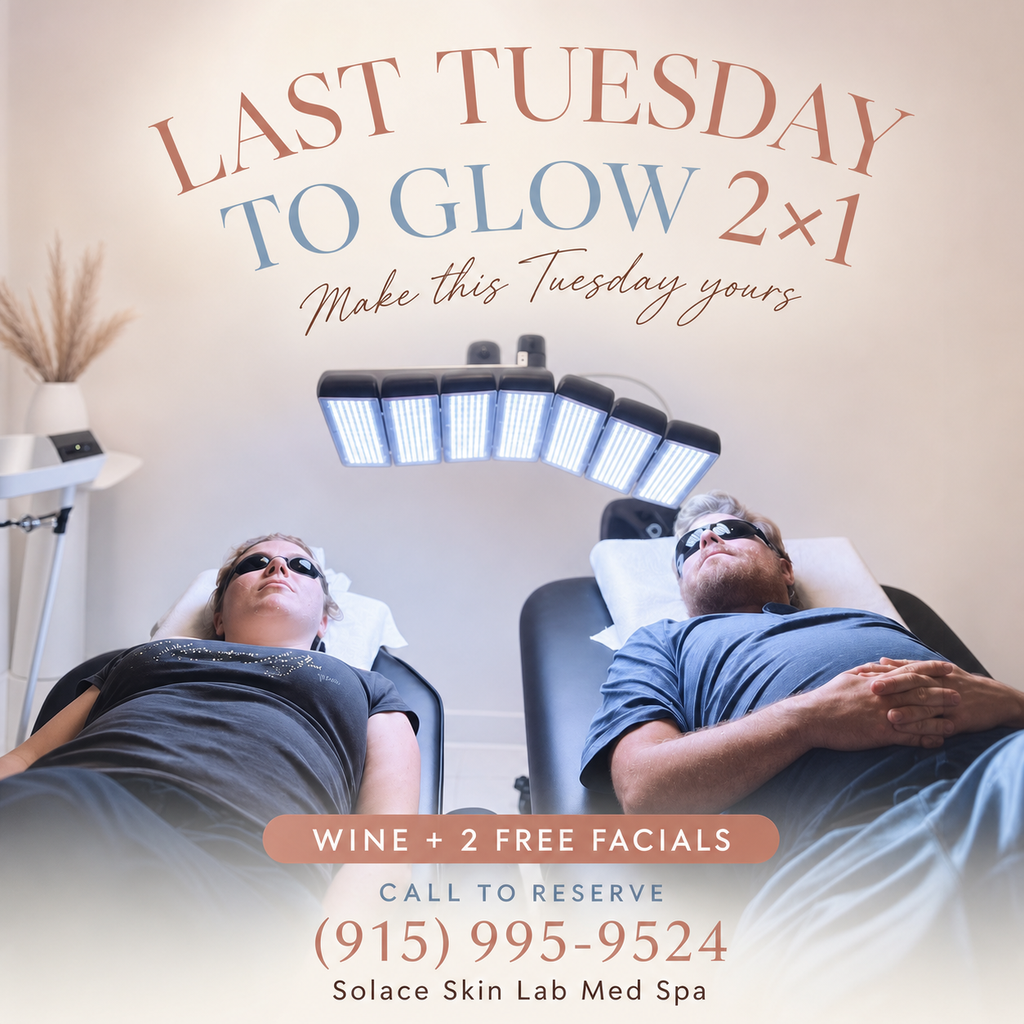
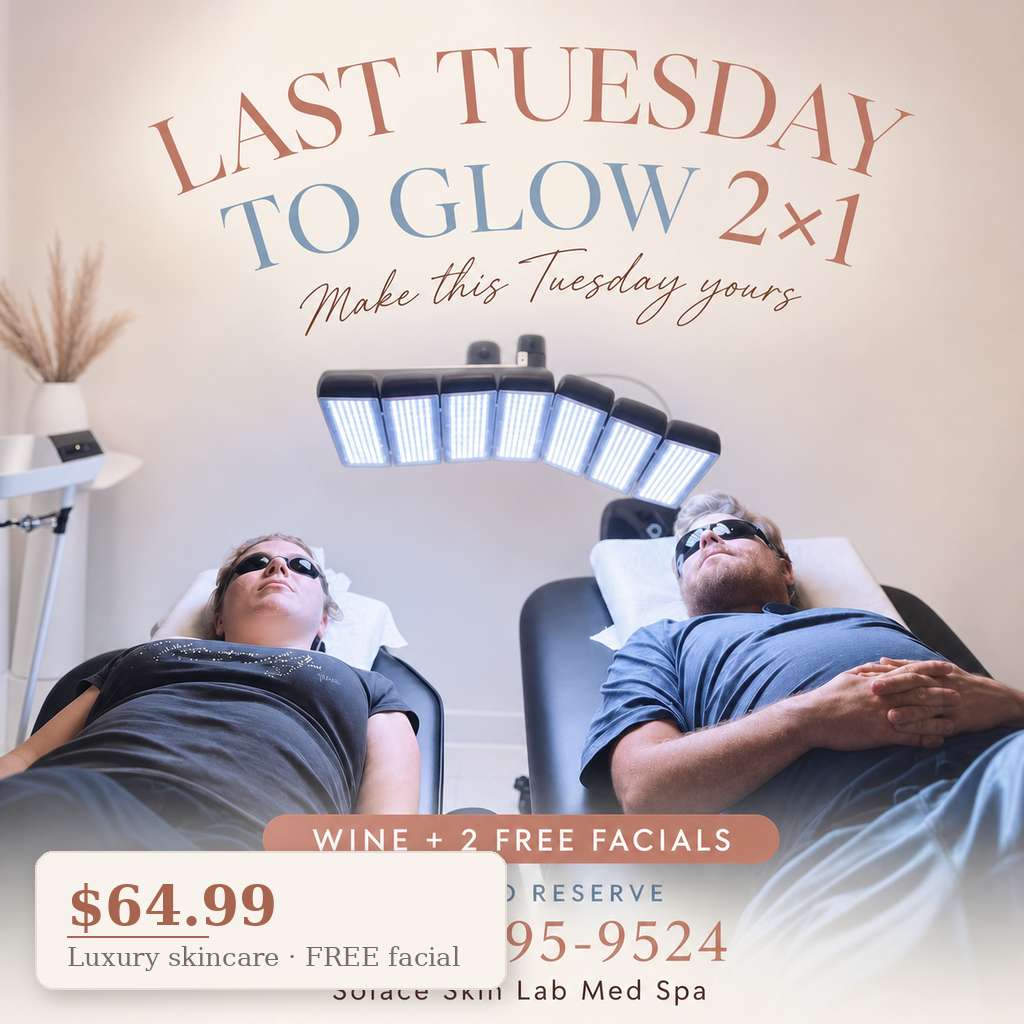
feat(solace-portal): Meta Ads approve buttons + $64.99 price badge on days 5/12/19/26/28 + remove AIDA labels

Changed region(s): [[0.0312, 0.8125, 0.5, 1.0]]

diff --git a/index.html b/index.html
@@ -51,30 +51,32 @@ const BUNKER_CAMPAIGN='august-2026';
 const BUNKER_CLIENT_NAME='';
 const REVIEWER='Solace Client';
 let clientRowId=null;
-let posts=[];let adsData=null;let filter='all';let state={approved:{},skipped:{},notes:{},edits:{}};
+let posts=[];let adsData=null;let filter='all';let state={approved:{},skipped:{},notes:{},edits:{},adApproved:{},adSkipped:{}};
 const $=s=>document.querySelector(s), $$=s=>[...document.querySelectorAll(s)];
 function esc(s=''){return String(s).replace(/[&<>"']/g,c=>({'&':'&amp;','<':'&lt;','>':'&gt;','"':'&quot;',"'":'&#39;'}[c]))}
 function loadState(){try{state=Object.assign(state,JSON.parse(localStorage.getItem('solace_august_v2_review')||'{}'))}catch(e){}}
-function mergeSupabase(){return fetch(`${SUPABASE_URL}/rest/v1/approvals?client=eq.${encodeURIComponent(BUNKER_CLIENT)}&campaign=eq.${encodeURIComponent(BUNKER_CAMPAIGN)}&client_name=eq.${encodeURIComponent(REVIEWER)}&select=id,review`,{headers:{'apikey':SUPABASE_ANON,'Authorization':`Bearer ${SUPABASE_ANON}`}}).then(r=>r.ok?r.json():[]).then(rows=>{const row=rows[0];if(row){clientRowId=row.id;const ps=(row.review&&row.review.posts)||[];ps.forEach(p=>{const d=+p.id;if(!d)return;const st=p.status;if(st==='approved'){state.approved[d]=true;delete state.skipped[d]}else if(st==='changes'||st==='skipped'){state.skipped[d]=true;delete state.approved[d]}if(p.note){state.notes[d]=p.note}})};render();renderAds();updateStats();schedulePersist()})}
+function mergeSupabase(){return fetch(`${SUPABASE_URL}/rest/v1/approvals?client=eq.${encodeURIComponent(BUNKER_CLIENT)}&campaign=eq.${encodeURIComponent(BUNKER_CAMPAIGN)}&client_name=eq.${encodeURIComponent(REVIEWER)}&select=id,review`,{headers:{'apikey':SUPABASE_ANON,'Authorization':`Bearer ${SUPABASE_ANON}`}}).then(r=>r.ok?r.json():[]).then(rows=>{const row=rows[0];if(row){clientRowId=row.id;const ps=(row.review&&row.review.posts)||[];ps.forEach(p=>{const d=+p.id;if(!d)return;const st=p.status;if(st==='approved'){state.approved[d]=true;delete state.skipped[d]}else if(st==='changes'||st==='skipped'){state.skipped[d]=true;delete state.approved[d]}if(p.note){state.notes[d]=p.note}});const adsIn=(row.review&&row.review.adStatus)||{};Object.keys(adsIn).forEach(id=>{const st=adsIn[id];if(st==='approved'){state.adApproved[id]=true;delete state.adSkipped[id]}else if(st==='changes'||st==='skipped'){state.adSkipped[id]=true;delete state.adApproved[id]}})};render();renderAds();renderAdActions();updateStats();schedulePersist()})}
 function save(){localStorage.setItem('solace_august_v2_review',JSON.stringify(state));updateStats();schedulePersist()}
 let _persistT=null;
 function schedulePersist(){clearTimeout(_persistT);_persistT=setTimeout(()=>persist(true),800)}
 function persist(silent){const review=buildReview();const headers={'Content-Type':'application/json','apikey':SUPABASE_ANON,'Authorization':`Bearer ${SUPABASE_ANON}`,'Prefer':'return=representation'};if(clientRowId){return fetch(`${SUPABASE_URL}/rest/v1/approvals?id=eq.${clientRowId}`,{method:'PATCH',headers,body:JSON.stringify({review})}).then(r=>{if(!r.ok&&!silent)alert('No se pudo guardar. Revisa tu conexión.');return r.ok}).catch(()=>{if(!silent)alert('No se pudo guardar. Revisa tu conexión.');return false})}return fetch(`${SUPABASE_URL}/rest/v1/approvals`,{method:'POST',headers,body:JSON.stringify({client:BUNKER_CLIENT,campaign:BUNKER_CAMPAIGN,client_name:REVIEWER,review})}).then(r=>r.ok?r.json():null).then(rows=>{if(rows&&rows[0])clientRowId=rows[0].id;return !!rows}).catch(()=>false)}
 function statusOf(d){return state.approved[d]?'approved':state.skipped[d]?'skipped':'pending'}
-function updateStats(){const a=posts.filter(p=>statusOf(p.day)==='approved').length,s=posts.filter(p=>statusOf(p.day)==='skipped').length,n=posts.length-a-s;$('#stats').innerHTML=`<span class="pill ok">${a} approved</span><span class="pill skip">${s} changes requested</span><span class="pill">${n} pending</span>`;$('#bar').style.width=`${posts.length?a/posts.length*100:0}%`}
+function adStatusOf(id){return state.adApproved[id]?'approved':state.adSkipped[id]?'skipped':'pending'}
+function renderAdActions(){if(!adsData)return;$$('#adGrid .ad-card').forEach(card=>{const id=card.dataset.ad;if(!id)return;const st=adStatusOf(id);const label=st==='approved'?'APPROVED':st==='skipped'?'CHANGES REQUESTED':'PENDING';const color=st==='approved'?'var(--ok)':st==='skipped'?'var(--skip)':'var(--muted)';let acts=card.querySelector('.ad-actions');if(!acts){acts=document.createElement('div');acts.className='ad-actions actions';card.appendChild(acts)}acts.style.cssText='display:flex;gap:8px;padding:0 18px 18px;flex-wrap:wrap;align-items:center';acts.innerHTML=`<span style="display:inline-block;font-size:10px;font-weight:800;letter-spacing:.14em;color:${color};margin-right:4px">${label}</span><button class="approve" data-ad-action="approve" data-ad="${id}">Approve</button><button class="skip" data-ad-action="skip" data-ad="${id}">Request changes</button><button data-ad-action="reset" data-ad="${id}">Reset</button>`});$$('#adGrid [data-ad-action]').forEach(b=>b.onclick=()=>{const id=b.dataset.ad,a=b.dataset.adAction;if(a==='approve'){state.adApproved[id]=true;delete state.adSkipped[id]}else if(a==='skip'){state.adSkipped[id]=true;delete state.adApproved[id]}else{delete state.adApproved[id];delete state.adSkipped[id]}save();renderAds();renderAdActions()})}
+function updateStats(){const a=posts.filter(p=>statusOf(p.day)==='approved').length,s=posts.filter(p=>statusOf(p.day)==='skipped').length,n=posts.length-a-s;const aa=adsData?adsData.ads.filter(x=>adStatusOf(x.id)==='approved').length:0,as=adsData?adsData.ads.filter(x=>adStatusOf(x.id)==='skipped').length:0,an=adsData?adsData.ads.length-aa-as:0;$('#stats').innerHTML=`<span class="pill ok">${a} approved</span><span class="pill skip">${s} changes requested</span><span class="pill">${n} pending</span><span class="pill ok">${aa} ads approved</span><span class="pill skip">${as} ads changes</span><span class="pill">${an} ads pending</span>`;$('#bar').style.width=`${posts.length?a/posts.length*100:0}%`}
 function edited(p,k){return state.edits[p.day]?.[k]??p[k]}
 function visiblePosts(){const type=$('#typeFilter').value,q=$('#search').value.toLowerCase().trim();return posts.filter(p=>(filter==='all'||statusOf(p.day)===filter)&&(type==='all'||p.type===type)&&(!q||JSON.stringify(p).toLowerCase().includes(q)))}
 function field(p,key,label){return `<div class="field"><b>${label}</b><textarea data-day="${p.day}" data-key="${key}">${esc(edited(p,key))}</textarea></div>`}
-function render(){const list=visiblePosts();$('#grid').innerHTML=list.length?list.map(p=>{const st=statusOf(p.day);return `<article class="card ${st}" id="card-${p.day}"><div class="image-wrap"><span class="image-status">${st==='approved'?'APPROVED':st==='skipped'?'CHANGES REQUESTED':'PENDING'}</span><img loading="lazy" src="images/august-2026-v2/day${String(p.day).padStart(2,'0')}.png" alt="Day ${p.day}: ${esc(p.title)}" data-full="images/august-2026-v2/day${String(p.day).padStart(2,'0')}.png"></div><div class="meta"><span class="day">DAY ${p.day}</span><span>${esc(p.date)}</span><span class="type">${esc(p.type)}</span></div><div class="content"><h3>${esc(p.title)}</h3><div class="aida">${field(p,'hook','ATTENTION')}${field(p,'body','INTEREST')}${field(p,'desire','DESIRE')}${field(p,'cta','ACTION')}</div><div class="hashtags">${esc(p.hashtags)}</div><div class="footer">📍 Cielo Vista Mall, El Paso TX · 📞 ${PHONE}</div></div><div class="actions"><button class="approve" data-action="approve" data-day="${p.day}">Approve</button><button class="skip" data-action="skip" data-day="${p.day}">Request changes</button><button data-action="reset" data-day="${p.day}">Reset</button></div><div class="notes"><textarea data-note="${p.day}" placeholder="Client notes for this post…">${esc(state.notes[p.day]||'')}</textarea></div></article>`}).join(''):'<div class="empty">No posts match this filter.</div>';bindCards();updateStats()}
-function renderAds(){if(!adsData)return;const s=adsData.monthlyStrategy;const budget=s.budgetAllocation.map(x=>`<li><b>${x.percent}% ${esc(x.segment)}:</b> ${esc(x.purpose)}</li>`).join('');const weeks=s.weeklyFlight.map(x=>`<li><b>Week ${x.week} · ${esc(x.dates)}:</b> ${esc(x.focus)} — ${esc(x.actions)}</li>`).join('');const metrics=s.measurement.map(x=>`<li>${esc(x)}</li>`).join('');$('#strategyGrid').innerHTML=`<article class="strategy-card"><h3>Budget Allocation</h3><ul>${budget}</ul></article><article class="strategy-card"><h3>Four-Week Flight</h3><ul>${weeks}</ul></article><article class="strategy-card"><h3>Measurement &amp; Optimization</h3><ul>${metrics}</ul></article>`;$('#adGrid').innerHTML=adsData.ads.map(a=>{const day=a.creativeDay||(a.creativeDays?.[0]);const allDays=[a.creativeDay,...(a.creativeDays||[]),...(a.alternateCreativeDays||[]),a.alternateCreativeDay].filter(Boolean);return `<article class="ad-card"><div class="ad-top"><img loading="lazy" src="images/august-2026-v2/day${String(day).padStart(2,'0')}.png" alt="Creative for ${esc(a.name)}"><div class="ad-head"><div class="ad-id">${esc(a.id)}</div><h3>${esc(a.name)}</h3><div class="ad-tags"><span>${esc(a.objective)}</span><span>${esc(a.funnel)}</span><span>${esc(a.week)}</span>${allDays.length?`<span>Creative day${allDays.length>1?'s':''}: ${allDays.join(', ')}</span>`:''}</div></div></div><div class="ad-body"><div class="ad-detail"><b>Audience:</b> ${esc(a.audience)}</div><div class="copy-variant"><b>PRIMARY TEXT · VARIANT A</b><p>${esc(a.primaryTextA)}</p></div><div class="copy-variant"><b>PRIMARY TEXT · VARIANT B</b><p>${esc(a.primaryTextB)}</p></div><div class="ad-output"><div><b>HEADLINE A</b>${esc(a.headlineA)}</div><div><b>HEADLINE B</b>${esc(a.headlineB)}</div><div><b>DESCRIPTION</b>${esc(a.description)}</div><div><b>CTA / DESTINATION</b>${esc(a.cta)} · ${esc(a.destination)}</div></div><div class="ad-detail"><b>Optimization:</b> ${esc(a.optimization)}</div><div class="compliance"><b>Activation note:</b> ${esc(a.compliance)}</div></div></article>`}).join('')}
+function render(){const list=visiblePosts();$('#grid').innerHTML=list.length?list.map(p=>{const st=statusOf(p.day);return `<article class="card ${st}" id="card-${p.day}"><div class="image-wrap"><span class="image-status">${st==='approved'?'APPROVED':st==='skipped'?'CHANGES REQUESTED':'PENDING'}</span><img loading="lazy" src="images/august-2026-v2/day${String(p.day).padStart(2,'0')}.png" alt="Day ${p.day}: ${esc(p.title)}" data-full="images/august-2026-v2/day${String(p.day).padStart(2,'0')}.png"></div><div class="meta"><span class="day">DAY ${p.day}</span><span>${esc(p.date)}</span><span class="type">${esc(p.type)}</span></div><div class="content"><h3>${esc(p.title)}</h3><div class="aida">${field(p,'hook','APERTURA')}${field(p,'body','MENSAJE')}${field(p,'desire','VALOR')}${field(p,'cta','CTA')}</div><div class="hashtags">${esc(p.hashtags)}</div><div class="footer">📍 Cielo Vista Mall, El Paso TX · 📞 ${PHONE}</div></div><div class="actions"><button class="approve" data-action="approve" data-day="${p.day}">Approve</button><button class="skip" data-action="skip" data-day="${p.day}">Request changes</button><button data-action="reset" data-day="${p.day}">Reset</button></div><div class="notes"><textarea data-note="${p.day}" placeholder="Client notes for this post…">${esc(state.notes[p.day]||'')}</textarea></div></article>`}).join(''):'<div class="empty">No posts match this filter.</div>';bindCards();updateStats()}
+function renderAds(){if(!adsData)return;const s=adsData.monthlyStrategy;const budget=s.budgetAllocation.map(x=>`<li><b>${x.percent}% ${esc(x.segment)}:</b> ${esc(x.purpose)}</li>`).join('');const weeks=s.weeklyFlight.map(x=>`<li><b>Week ${x.week} · ${esc(x.dates)}:</b> ${esc(x.focus)} — ${esc(x.actions)}</li>`).join('');const metrics=s.measurement.map(x=>`<li>${esc(x)}</li>`).join('');$('#strategyGrid').innerHTML=`<article class="strategy-card"><h3>Budget Allocation</h3><ul>${budget}</ul></article><article class="strategy-card"><h3>Four-Week Flight</h3><ul>${weeks}</ul></article><article class="strategy-card"><h3>Measurement &amp; Optimization</h3><ul>${metrics}</ul></article>`;$('#adGrid').innerHTML=adsData.ads.map(a=>{const day=a.creativeDay||(a.creativeDays?.[0]);const allDays=[a.creativeDay,...(a.creativeDays||[]),...(a.alternateCreativeDays||[]),a.alternateCreativeDay].filter(Boolean);return `<article class="ad-card" data-ad="${esc(a.id)}"><div class="ad-top"><img loading="lazy" src="images/august-2026-v2/day${String(day).padStart(2,'0')}.png" alt="Creative for ${esc(a.name)}"><div class="ad-head"><div class="ad-id">${esc(a.id)}</div><h3>${esc(a.name)}</h3><div class="ad-tags"><span>${esc(a.objective)}</span><span>${esc(a.funnel)}</span><span>${esc(a.week)}</span>${allDays.length?`<span>Creative day${allDays.length>1?'s':''}: ${allDays.join(', ')}</span>`:''}</div></div></div><div class="ad-body"><div class="ad-detail"><b>Audience:</b> ${esc(a.audience)}</div><div class="copy-variant"><b>PRIMARY TEXT · VARIANT A</b><p>${esc(a.primaryTextA)}</p></div><div class="copy-variant"><b>PRIMARY TEXT · VARIANT B</b><p>${esc(a.primaryTextB)}</p></div><div class="ad-output"><div><b>HEADLINE A</b>${esc(a.headlineA)}</div><div><b>HEADLINE B</b>${esc(a.headlineB)}</div><div><b>DESCRIPTION</b>${esc(a.description)}</div><div><b>CTA / DESTINATION</b>${esc(a.cta)} · ${esc(a.destination)}</div></div><div class="ad-detail"><b>Optimization:</b> ${esc(a.optimization)}</div><div class="compliance"><b>Activation note:</b> ${esc(a.compliance)}</div></div></article>`}).join('')}
 function bindCards(){$$('#grid [data-action]').forEach(b=>b.onclick=()=>{const d=+b.dataset.day,a=b.dataset.action;if(a==='approve'){state.approved[d]=true;delete state.skipped[d]}else if(a==='skip'){state.skipped[d]=true;delete state.approved[d]}else{delete state.approved[d];delete state.skipped[d]}save();render()});$$('#grid textarea[data-key]').forEach(t=>t.onchange=()=>{const d=+t.dataset.day;(state.edits[d]??={})[t.dataset.key]=t.value;save()});$$('#grid textarea[data-note]').forEach(t=>t.onchange=()=>{state.notes[t.dataset.note]=t.value;save()});$$('#grid img[data-full]').forEach(i=>i.onclick=()=>{$('#modal img').src=i.dataset.full;$('#modal').classList.add('open')})}
-$$('[data-filter]').forEach(b=>b.onclick=()=>{$$('[data-filter]').forEach(x=>x.classList.remove('active'));b.classList.add('active');filter=b.dataset.filter;render()});$('#typeFilter').onchange=render;$('#search').oninput=render;$('#approveAll').onclick=()=>{visiblePosts().forEach(p=>{state.approved[p.day]=true;delete state.skipped[p.day]});save();render()};$('#reset').onclick=()=>{if(confirm('Clear all approvals, requested changes, notes, and copy edits?')){state={approved:{},skipped:{},notes:{},edits:{}};save();render()}};
+$$('[data-filter]').forEach(b=>b.onclick=()=>{$$('[data-filter]').forEach(x=>x.classList.remove('active'));b.classList.add('active');filter=b.dataset.filter;render()});$('#typeFilter').onchange=render;$('#search').oninput=render;$('#approveAll').onclick=()=>{visiblePosts().forEach(p=>{state.approved[p.day]=true;delete state.skipped[p.day]});save();render()};$('#reset').onclick=()=>{if(confirm('Clear all approvals, requested changes, notes, and copy edits?')){state={approved:{},skipped:{},notes:{},edits:{},adApproved:{},adSkipped:{}};save();render();renderAds();renderAdActions()}};
 $('#sendBunker').onclick=submitToBunker;
-function buildReview(){const postsOut=posts.map(p=>{const st=statusOf(p.day);return {id:p.day,status:st,hook:edited(p,'hook'),body:edited(p,'body'),desire:edited(p,'desire'),cta:edited(p,'cta'),notes:state.notes[p.day]||''}});return {posts:postsOut,ads:adsData}}
+function buildReview(){const postsOut=posts.map(p=>{const st=statusOf(p.day);return {id:p.day,status:st,hook:edited(p,'hook'),body:edited(p,'body'),desire:edited(p,'desire'),cta:edited(p,'cta'),notes:state.notes[p.day]||''}});const adsOut=adsData?{...adsData,ads:adsData.ads.map(a=>({...a,status:adStatusOf(a.id)}))}:adsData;const adStatusMap=adsData?Object.fromEntries(adsData.ads.map(a=>[a.id,adStatusOf(a.id)])):{};return {posts:postsOut,ads:adsOut,adStatus:adStatusMap}}
 function submitToBunker(){const a=posts.filter(p=>statusOf(p.day)==='approved').length,s=posts.filter(p=>statusOf(p.day)==='skipped').length;if(!confirm(`Enviar aprobaciones a Bunker?\nAprobadas: ${a}\nCambios solicitados: ${s}\nPendientes: ${posts.length-a-s}`))return;$('#sendBunker').disabled=true;$('#sendBunker').textContent='Enviando…';persist(false).then(ok=>{$('#sendBunker').disabled=false;$('#sendBunker').textContent='Enviar a Bunker';if(ok){alert('¡Gracias! Bunker ya puede ver tus respuestas.');$('#whatsapp').click()}else{alert('No se pudo enviar. Revisa tu conexión e intenta de nuevo.')}})}
 $('#export').onclick=()=>{const result={campaign:'August Skin Reset V2',period:'2026-07-24 to 2026-08-22',exportedAt:new Date().toISOString(),posts:posts.map(p=>({...p,hook:edited(p,'hook'),body:edited(p,'body'),desire:edited(p,'desire'),cta:edited(p,'cta'),status:statusOf(p.day),notes:state.notes[p.day]||'',image:`images/august-2026-v2/day${String(p.day).padStart(2,'0')}.png`,phone:PHONE}))};const blob=new Blob([JSON.stringify(result,null,2)],{type:'application/json'}),a=document.createElement('a');a.href=URL.createObjectURL(blob);a.download='solace-august-2026-v2-client-review.json';a.click();URL.revokeObjectURL(a.href)};
 $('#whatsapp').onclick=()=>{const a=posts.filter(p=>statusOf(p.day)==='approved').length,s=posts.filter(p=>statusOf(p.day)==='skipped').length,msg=`Solace Skin Lab — August Content Review\nApproved: ${a}\nChanges requested: ${s}\nPending: ${posts.length-a-s}\n\nReview portal: ${location.href}`;window.open('https://wa.me/526564535107?text='+encodeURIComponent(msg),'_blank')};$('#modal button').onclick=()=>$('#modal').classList.remove('open');$('#modal').onclick=e=>{if(e.target.id==='modal')$('#modal').classList.remove('open')};document.onkeydown=e=>{if(e.key==='Escape')$('#modal').classList.remove('open')};
-Promise.all([DATA_URL,ADS_URL].map(u=>fetch(u).then(r=>{if(!r.ok)throw Error(`${u}: HTTP ${r.status}`);return r.json()}))).then(([data,ads])=>{posts=data;adsData=ads;loadState();mergeSupabase();[...new Set(posts.map(p=>p.type))].sort().forEach(t=>$('#typeFilter').insertAdjacentHTML('beforeend',`<option>${esc(t)}</option>`));render();renderAds();$('#loader').classList.add('hide')}).catch(e=>{$('#loader').textContent='Unable to load campaign data: '+e.message});
+Promise.all([DATA_URL,ADS_URL].map(u=>fetch(u).then(r=>{if(!r.ok)throw Error(`${u}: HTTP ${r.status}`);return r.json()}))).then(([data,ads])=>{posts=data;adsData=ads;loadState();mergeSupabase();[...new Set(posts.map(p=>p.type))].sort().forEach(t=>$('#typeFilter').insertAdjacentHTML('beforeend',`<option>${esc(t)}</option>`));render();renderAds();renderAdActions();$('#loader').classList.add('hide')}).catch(e=>{$('#loader').textContent='Unable to load campaign data: '+e.message});
 </script>
 </body>
 </html>

diff --git a/add_price_badge.py b/add_price_badge.py
@@ -1,0 +1,95 @@
+#!/usr/bin/env python3
+"""Composite an elegant on-brand $64.99 price badge onto selected Solace August V2 creatives.
+
+Target days: 5, 12, 19, 26 (Tuesday 2x1 promo) + 28 (Facial + LED).
+Badge text:
+  $64.99
+  Luxury skincare · FREE facial
+Placed bottom-left, ivory translucent card, rose (#a76550) accent rule, serif type.
+Does NOT cover faces or top text. Preserves original pixels elsewhere.
+"""
+import os
+from PIL import Image, ImageDraw, ImageFont, ImageFilter
+
+BASE = os.path.dirname(os.path.abspath(__file__))
+IMG_DIR = os.path.join(BASE, "images", "august-2026-v2")
+DAYS = [5, 12, 19, 26, 28]
+
+# Brand palette
+IVORY = (248, 243, 237, 242)       # card fill, slightly translucent
+CARD_LINE = (230, 221, 213, 255)   # hairline border
+ROSE = (167, 101, 80, 255)         # #a76550 text accent
+INK = (52, 46, 42, 255)            # #342e2a dark text
+MUTED = (117, 109, 103, 255)       # #756d67 sub text
+
+SERIF_B = "/usr/share/fonts/truetype/dejavu/DejaVuSerif-Bold.ttf"
+SERIF = "/usr/share/fonts/truetype/dejavu/DejaVuSerif.ttf"
+
+
+def font(path, size):
+    return ImageFont.truetype(path, size)
+
+
+def fit(draw, text, fnt, max_w):
+    # shrink to fit width
+    while draw.textlength(text, font=fnt) > max_w and fnt.size > 8:
+        fnt = ImageFont.truetype(fnt.path, fnt.size - 1)
+    return fnt
+
+
+def add_badge(src_path, dst_path):
+    im = Image.open(src_path).convert("RGBA")
+    W, H = im.size
+    draw = ImageDraw.Draw(im, "RGBA")
+
+    # Badge sizing relative to image
+    pad = int(W * 0.035)
+    card_w = int(W * 0.46)
+    card_h = int(H * 0.135)
+    x0 = pad
+    y0 = H - card_h - pad
+    x1 = x0 + card_w
+    y1 = y0 + card_h
+
+    # Soft shadow
+    shadow = Image.new("RGBA", (W, H), (0, 0, 0, 0))
+    sd = ImageDraw.Draw(shadow)
+    sd.rounded_rectangle([x0 + 6, y0 + 8, x1 + 6, y1 + 8], radius=18, fill=(60, 40, 30, 60))
+    shadow = shadow.filter(ImageFilter.GaussianBlur(10))
+    im.alpha_composite(shadow)
+
+    # Card
+    draw.rounded_rectangle([x0, y0, x1, y1], radius=18, fill=IVORY, outline=CARD_LINE, width=2)
+
+    # Layout inside card
+    inner_pad = int(card_w * 0.07)
+    cx = x0 + inner_pad
+    price_sz = int(card_h * 0.40)
+    sub_sz = int(card_h * 0.20)
+    price_f = fit(draw, "$64.99", font(SERIF_B, price_sz), card_w - 2 * inner_pad)
+    sub_f = fit(draw, "Luxury skincare · FREE facial", font(SERIF, sub_sz), card_w - 2 * inner_pad)
+
+    # accent rule between price and sub
+    price_y = y0 + int(card_h * 0.16)
+    draw.text((cx, price_y), "$64.99", font=price_f, fill=ROSE)
+    pb = draw.textbbox((cx, price_y), "$64.99", font=price_f)
+    sub_y = pb[3] + int(card_h * 0.06)
+    # small rose rule
+    rule_y = sub_y - int(card_h * 0.04)
+    draw.line([(cx, rule_y), (cx + int(card_w * 0.30), rule_y)], fill=ROSE, width=2)
+    draw.text((cx, sub_y), "Luxury skincare · FREE facial", font=sub_f, fill=MUTED)
+
+    im.convert("RGB").save(dst_path, "PNG")
+    print(f"wrote {os.path.basename(dst_path)} ({W}x{H})")
+
+
+def main():
+    for d in DAYS:
+        name = f"day{str(d).zfill(2)}.png"
+        src = os.path.join(IMG_DIR, name)
+        add_badge(src, src)  # overwrite in place
+    print("done")
+
+
+if __name__ == "__main__":
+    main()
